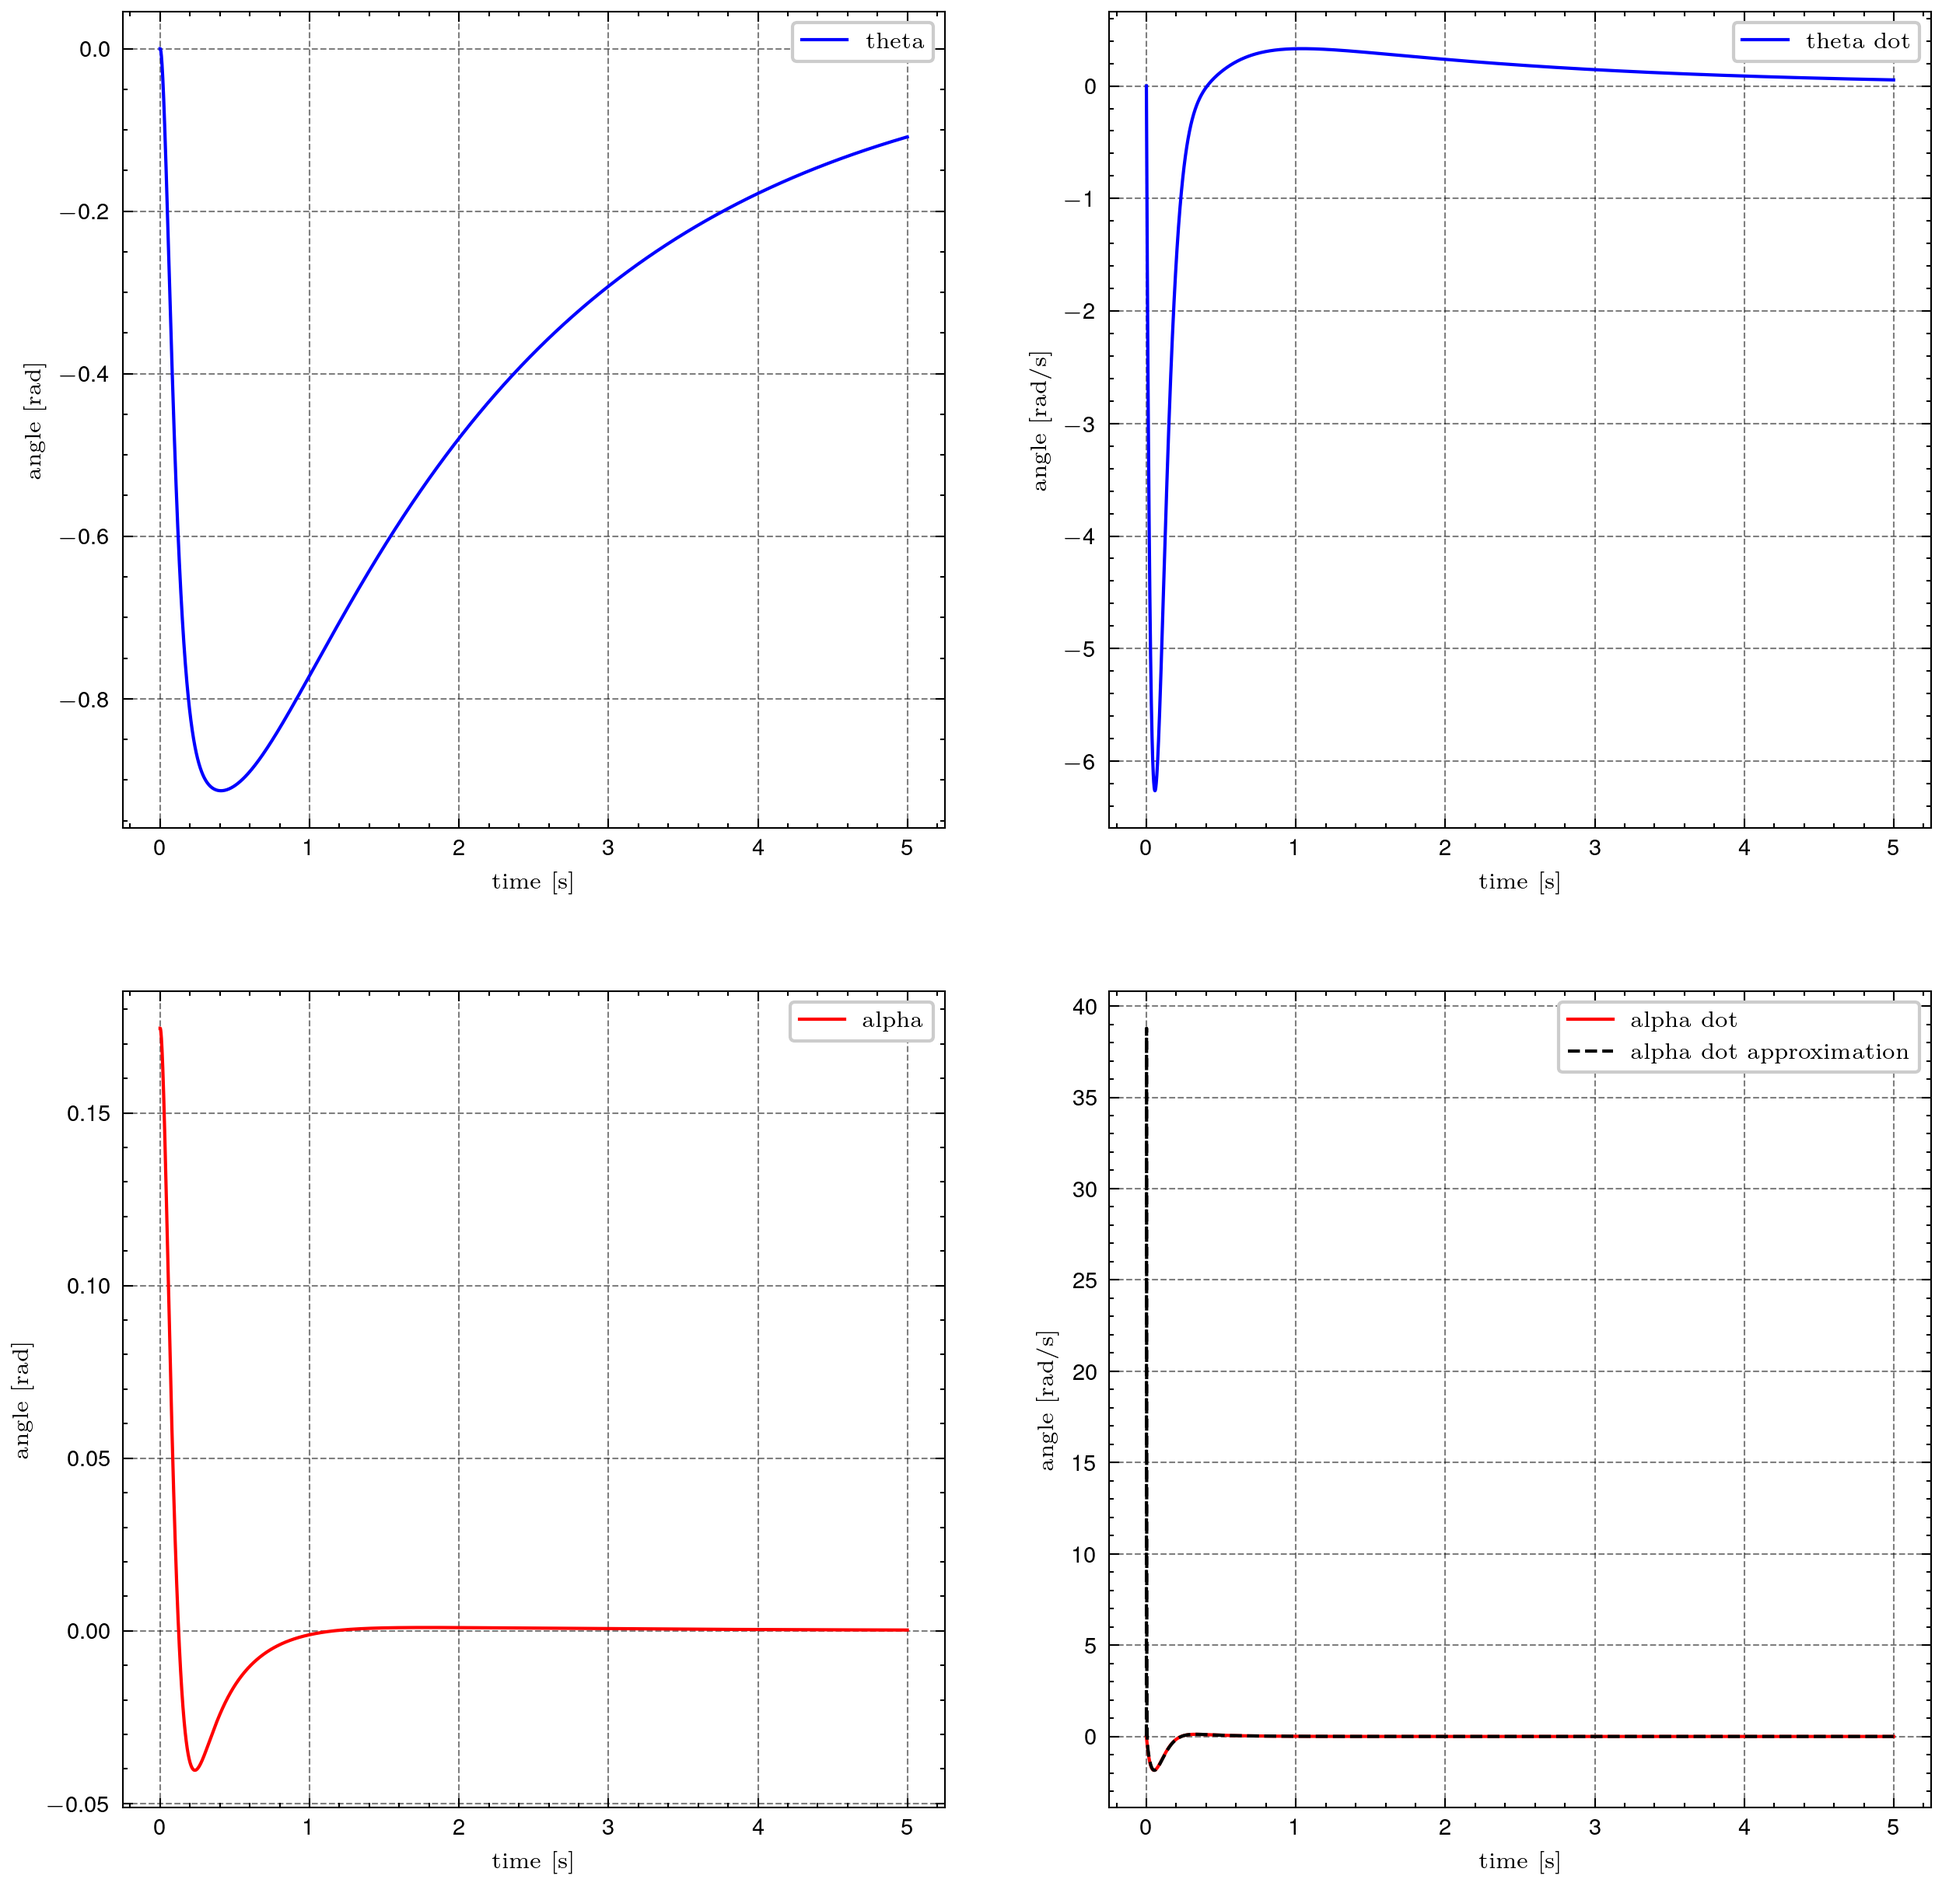
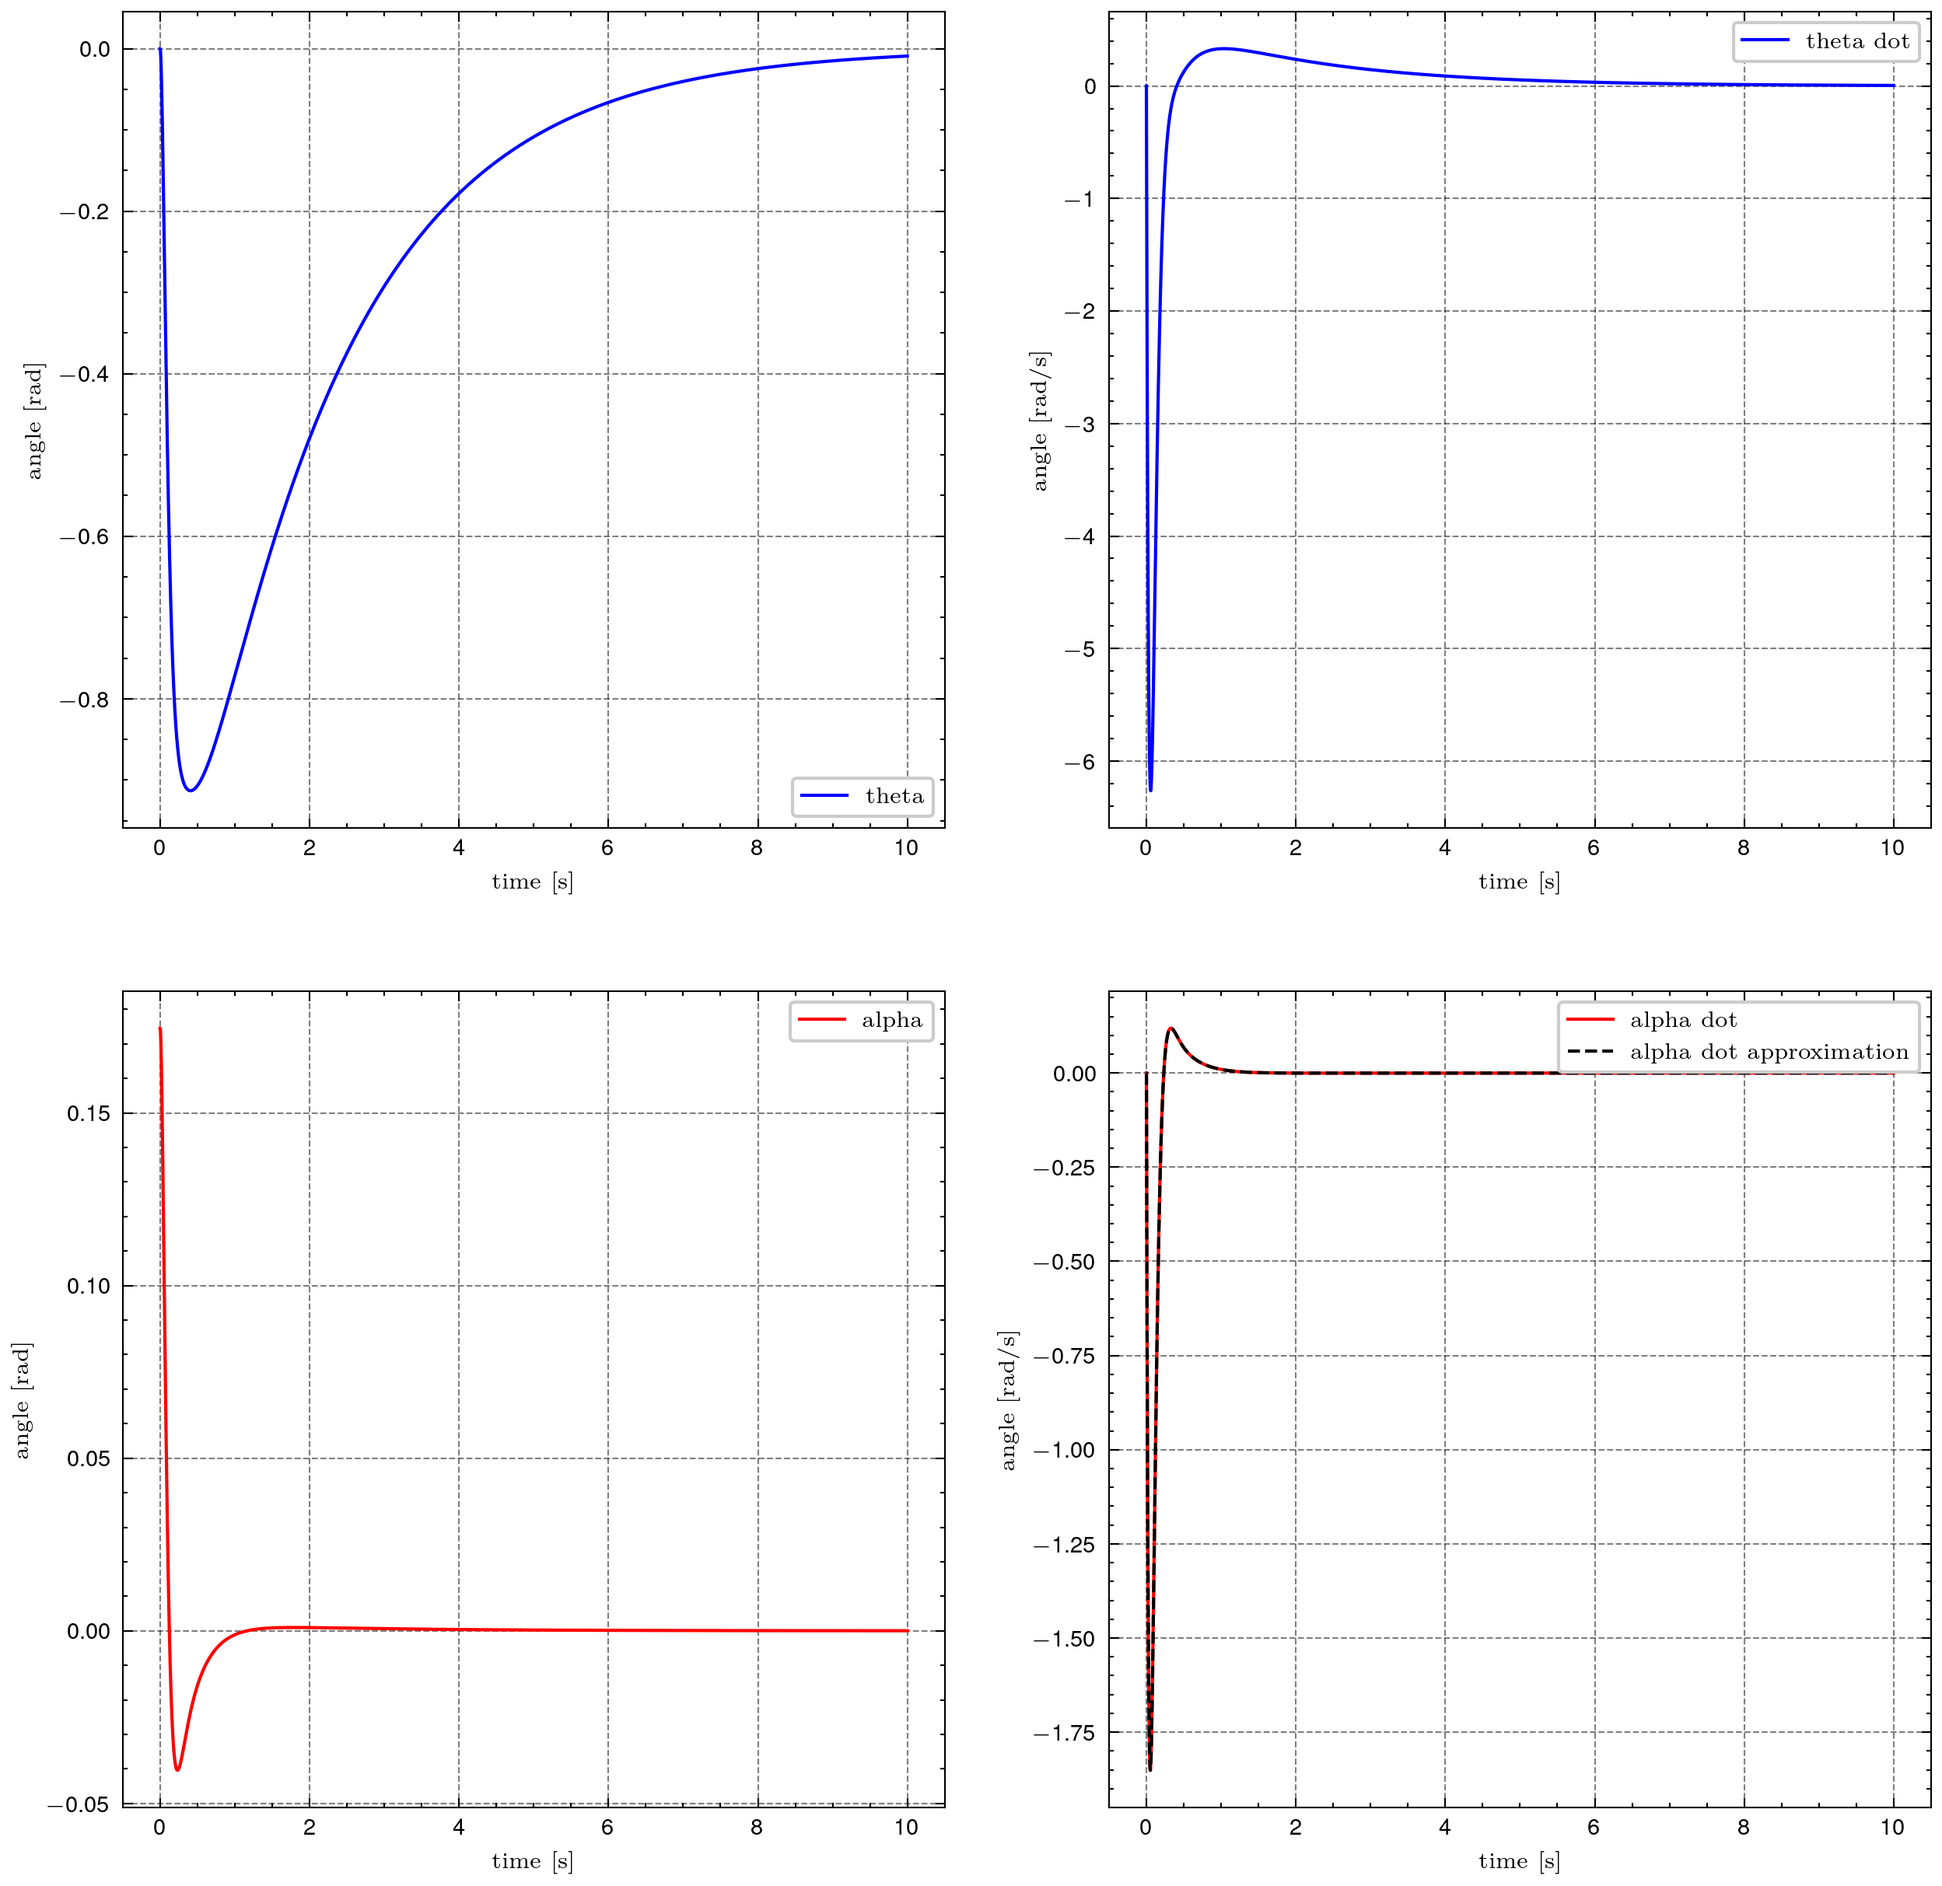
-.

diff --git a/simulation/main.py b/simulation/main.py
@@ -1,8 +1,6 @@
 import numpy as np
 import matplotlib.pyplot as plt
-import control as ct
-import scipy.signal as signal
-from system import linear_space_system
+from system import linear_space_system, alpha_dot
 from controller import find_controller
 
 plt.style.use([
@@ -14,7 +12,7 @@ plt.style.use([
 plt.rcParams["font.family"] = "FreeSerif, Regular"
 plt.rcParams['font.size'] = 12
 
-sine_signal = np.load('./data/sine_signal.npy')
+sine_signal = np.load('../data/sine_signal.npy')
 
 A, B, C, D = linear_space_system()
 K = find_controller()
@@ -28,7 +26,7 @@ initial_condition = np.array([
 
 x = np.copy(initial_condition)
 
-simulation_time = 5
+simulation_time = 10
 simulation_step = 1e-3
 
 iterations = int(simulation_time / simulation_step)
@@ -43,13 +41,7 @@ alpha_values[0] = np.array([x[1], x[3]]).T
 
 us = np.zeros((iterations, 1))
 
-c = .001
-G = ct.tf([1, 0], [c, 1])
-d_sys = ct.c2d(G, .001, 'tustin')
-
-Gd = signal.dlti(d_sys.num[0][0], d_sys.den[0][0], dt=.001)
-
-test = np.zeros((iterations, 1))
+ad = np.zeros((iterations, 1))
 
 for i in range(1, iterations):
   u = K @ x
@@ -60,10 +52,10 @@ for i in range(1, iterations):
   theta_values[i] = np.array([x[0], x[2]]).T
   alpha_values[i] = np.array([x[1], x[3]]).T
 
-  [_, alpha_dot] = signal.dlsim(Gd, alpha_values[:i+1, 0], time[:i+1])
-  us[i] = u
+  alpha_dot_k = alpha_dot(alpha_values[i - 1, 1], alpha_values[i - 1, 0], alpha_values[i, 0])
+  ad[i] = alpha_dot_k
 
-  test[i] = alpha_dot[-1]
+  us[i] = u
 
 
 fig1, axs = plt.subplots(2, 2, figsize=(10, 10))
@@ -89,7 +81,7 @@ axs[1][0].set_xlabel('time [s]')
 axs[1][0].set_ylabel('angle [rad]')
 
 axs[1][1].plot(time, alpha_values[:, 1], color='red')
-axs[1][1].plot(time, test, '--', color='black')
+axs[1][1].plot(time, ad, '--', color='black')
 
 axs[1][1].legend(['alpha dot', 'alpha dot approximation'])
 axs[1][1].set_xlabel('time [s]')

diff --git a/simulation/data_generator.py b/simulation/data_generator.py
@@ -17,4 +17,4 @@ def sine_wave_signal(t, t_step):
 
 # generate a sinewave signal with 60 Hz and amplitude of 1
 signal = sine_wave_signal(t=10, t_step=1e-3)
-np.save('./data/sine_signal.npy', signal)
+np.save('../data/sine_signal.npy', signal)

diff --git a/system.py b/system.py
@@ -42,6 +42,10 @@ D = np.array([
 ]).T
 
 
+def alpha_dot(prev_alpha_dot, prev_alpha, alpha):
+  return .9048 * prev_alpha_dot + 95.24 * alpha - 95.24 * prev_alpha
+
+
 def linear_space_system():
   return A, B, C, D
 

diff --git a/control.py b/control.py
@@ -1,0 +1,4 @@
+import numpy as np
+from system import linear_space_system, alpha_dot
+
+
